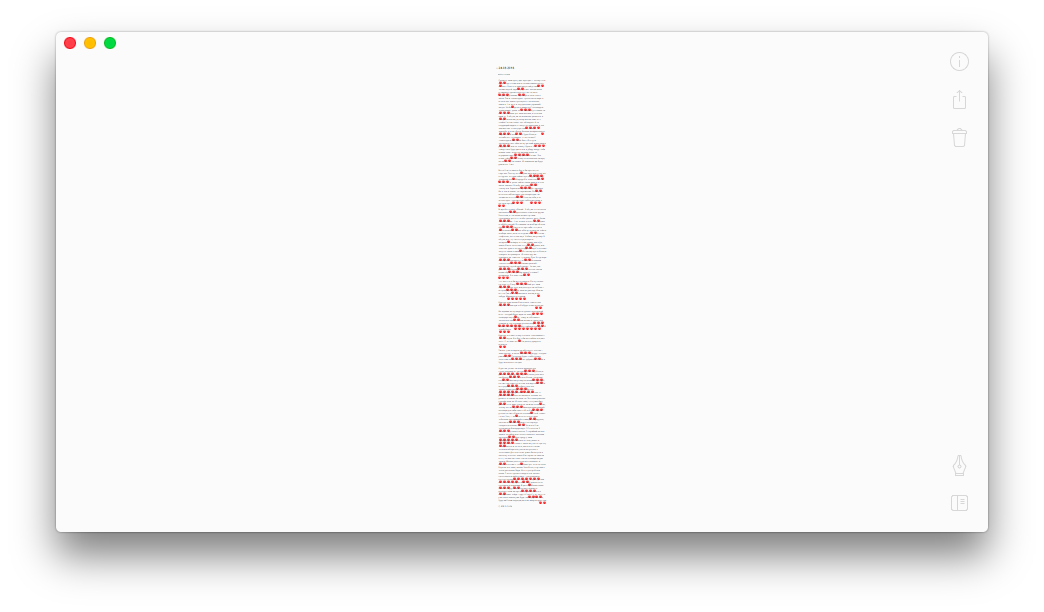
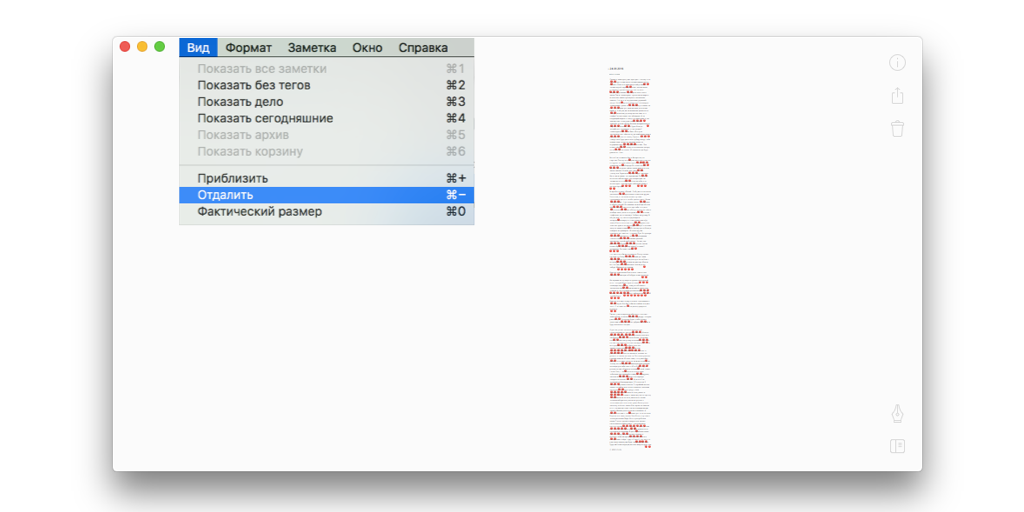
Finished content for writing-problems-2

Changed region(s): [[0.0312, 0.0312, 0.9688, 1.0]]

diff --git a/src/pages/writing-problems-2/index.md b/src/pages/writing-problems-2/index.md
@@ -1,68 +1,86 @@
 ---
-featuredImage: "./featured-image.jpg"
+featuredImage: "./editor-shut-up.jpg"
 date: "2018-09-05"
-title: "Пять способов отключить внутреннего редактора"
+title: "Пять способов заткнуть внутреннего редактора"
 tags: ['Тексты']
 excerpt: "Не забудь написать новое вступление"
 ---
 
-[В прошлой части](/writing-problems) я рассказал о том, что у начинающих писателей две самых больших проблемы — это боязнь чистого листа и микроменеджмент. 
+[В прошлой части](/writing-problems) я рассказал о том, что у начинающих писателей две самых серьезных проблемы — это боязнь чистого листа и микроменеджмент. 
 
-В микроменеджменте виноваты внутренний критик и внутренний редактор. Чтобы избавиться от микроменеджмента, нужно научиться затыкать эту «сладкую парочку». Самый лучший способ их заткнуть придумал Эрнест Хемингуэй: *«Пиши пьяным, редактируй трезвым»*. Но Эрнест не рассказал, что делать тем, кто не хочет напиваться ради каждого нового поста в блог.
+В микроменеджменте виноваты **внутренний критик** и **внутренний редактор**. Чтобы избавиться от микроменеджмента, нужно научиться затыкать эту «сладкую парочку». Самый лучший способ их заткнуть придумал Эрнест Хемингуэй: 
 
-Поэтому я решил найти способы становиться пьяным писателем, но оставаться трезвым. Я опросил умных людей и интернет, и мне рассказали о 5 разных способах:
+> *«Пиши пьяным, редактируй трезвым»*. 
+
+Но Эрнест не рассказал, что делать тем, кто не хочет напиваться ради каждого нового текста.
+
+Поэтому я решил найти способы становиться пьяным писателем, но оставаться трезвым человеком. Я обыскал интернет, спросил умных людей, и мне рассказали о 5 способах:
 
 1. **Способ Олеси Новиковой** (ментальный): мантра перед работой над черновиком «Критик и редактор засыпают, просыпается писатель»
 2. **Способ Сергея Капличного**: отключить проверку орфографии и пунктуации
-3. **Способ из приложения Драфт**: отключить возможность удалять текст во время писательской сессии
-4. **Мой способ**: стырить идею из Драфта, и временно «сломать» клавишу Бекспейса на клавиатуре с помощью приложения Карабинер
-5. **Способ Людвига Быстроновского**: уменьшить масштаб текста до 10-15%, чтобы буквы стали пикселями
+3. **Способ из веб-сервиса Драфт**: отключить возможность удалять текст во время писательской сессии
+4. **Мой способ**: стырить идею из Драфта, и временно «сломать» клавишу Бекспейса на клавиатуре с помощью программы Карабинер
+5. **Способ Людвига Быстроновского** (топовый): уменьшить масштаб текста до 10-15%, чтобы буквы стали пикселями
 
 
+
+Теперь подробнее о каждом способе.
 
 ## Способ 1: Критик и редактор засыпают, просыпается писатель
 
 Этот способ я подслушал в 8 выпуске подкаста «Будет сделано». Перед каждой писательской сессией давать себе продуктивную мысленную установку: «Критик и редактор засыпают, просыпается только писатель». Представить, что происходит партия игры в Мафию, наступает ночь, и ведущий партии говорит: «Все засыпают, просыпается только писатель». И пока на дворе ночь, быстренько писать свой черновик. 
 
-Прекрасный способ обмануть внутренних «критиканов». Но, похоже, очень временный. Критики не дураки, и рано или поздно поймут, что никакой партии в  «Мафию» на самом деле не происходит, и начнут просыпаться раньше. 
+Прекрасный способ обмануть внутренних «критиканов». Но временный. Критики не дураки, и рано или поздно поймут, что никакой партии в  «Мафию» на самом деле не происходит, и начнут просыпаться раньше. 
 
 
 ## Способ  2: отключить проверки орфографии и пунктуации
 
-Этим способом поделился в телеграме Сергей Капличный:
+Этим способом со мной поделился Сергей Капличный:
 ![Совет Сергея Капличного](./skaplichny-advice.png)
 
 
 
-Идея в том, чтобы просто перестать подкидывать визуальные сигналы критику и редактору. Если хотят придираться, то пусть тратят свои тексто-распозновательные ресурсы. Это почти то же самое, что выключить звуковые и визуальные уведомления в телефоне.
+Идея в том, чтобы просто перестать подкидывать визуальные сигналы критику и редактору. Это то же самое, что выключить звуковые и всплывающие оповещения в смартфоне.
+
+Если хотят придираться, то пусть тратят свои личные тексто-распозновательные ресурсы, а не наши общие. 
 
 ![Совет Сергея Капличного](./check-orfo.jpg)
 
 
 ## Способ 3: использовать режим Хэмингуэя в сервисе Драфт
 
-![Сервис для писателей Драфт](./draft-hemingway-mode.png)
+[Драфт](https://draftin.com/) — это веб-сервис для писателей, во многом похожий на Гугл Докс, но с множеством уникальных фишек.
 
-Режим Хэмингуэя в Драфте отключает любую возможность удаления текста. А это значит, чтоб любые указания критика и редактора что-либо исправить будут бессмысленны — исправить ничего нельзя! Физически! Спустя несколько минут они это поймут, и уйдут восвояси.
+Режим Хэмингуэя в Драфте отключает любую возможность удаления текста. *Писать текст — пожалуйста! Удалять — извините, не сегодня!* А это значит, что любые указания критика и редактора что-либо исправить будут бессмысленны — исправить ничего нельзя! Физически! Спустя несколько минут безответных выпадов, они все поймут, и уйдут восвояси.
 
 ![Функция режима Хэмингуэя в приложении Драфт](./draft-app-feature.png)
 
 ## Способ 4: блокировать клавишу Бекспейс
-Я не хотел тратить деньги на подписку в Драфте, поэтому пошел искать бесплатные или опенсорсные решения. И вспомнил про приложение Карабинер, которое позволяет перенастраивать клавиатуру как угодно. Например, чтобы клавиша КапсЛок работала как Контрол, или чтобы Эскейп был на одну клавишу ниже:
+Я не хотел тратить деньги на подписку в Драфте, поэтому пошел искать бесплатные или опенсорсные решения. И вспомнил про приложение Карабинер, которое позволяет перенастраивать клавиатуру как угодно. Например, чтобы клавиша Капс Лок работала как Контрол, или чтобы Эскейп был на одну клавишу ниже:
 
 ![Карабинер перекроил клавиатуру](./rebinded-keyboard.jpg)
 
 
 
-Я написал конфигурацию для Карабинера и [выложил ее на Гитхаб](https://github.com/Bazai/hemingway_mode_karabiner). Карабинер вносит нужные настройки в операционной системе, чтобы все нажатия Бекспейса просто игнорировались. Да, этот способ сильно технический, а интерфейс в Карабинере совсем не дружелюбный, но зато все бесплатно и работает в любом текстовом редакторе.
+Я написал конфигурацию для Карабинера и [выложил ее на Гитхаб](https://github.com/Bazai/hemingway_mode_karabiner). Карабинер вносит нужные настройки в операционной системе, чтобы все нажатия Бекспейса просто игнорировались. Да, этот способ сильно технический, а интерфейс в Карабинере совсем не дружелюбный, но зато все бесплатно и работает в любом текстовом редакторе. И режим Хэмингуэя всегда на расстоянии двух кликов в меню МакОСи.
 
 ![Режим Хэмингуэя в Карабинере](./karabiner-hemingway-mode.png)
 
-![Инструкция Режим Хэмингуэя на Гитхабе](./karabiner-block-backspace.png)
+## Способ 5: уменьшить масштаб текста до 10-15% (топовый)
+В чате мне подсказали прием, который использует Людвиг Быстроновский — арт-директор Студии Лебедева:
 
-## Способ 5: уменьшить масштаб текста до 10-15%
 ![Способ Людвига Быстроновского](./lyudwig-bystronovsky-advice.png)
+
+Действительно, при таком масштабе любой текст становится просто серым кирпичом, а к кирпичам критики и редакторы не придираются. Может быть это обязанность внутреннего прораба, или внутреннего каменотёса, но мне повезло — таких у меня нет.
+
+А если в текстовом редакторе включить подчеркивание ошибок и максимально отдалить текст, то серый кирпич станет наряднее и веселее, и смотреть на него будет приятно. 
+
+Так выглядит мой нарядный кирпич текста в Беаре:
+
 ![Минимальный масштаб текста в Беаре](./bear-minimal-zoom.png)
 
-## Мои выводы
+## Ваша очередь
 
+Вот такие 5 способов отключить критика и редактора я нашел и опробовал на себе. Лично для меня самым эффективным оказался способ Людвига. Теперь критик и редактор отключаются мгновенно и я «выливаю» мысли из головы в текстовый редактор в бесшумном режиме.
+
+А теперь ваша очередь: попробуйте эти способы и расскажите, какой для вас сработал лучше всего? Или какие способы используете для этого вы?
